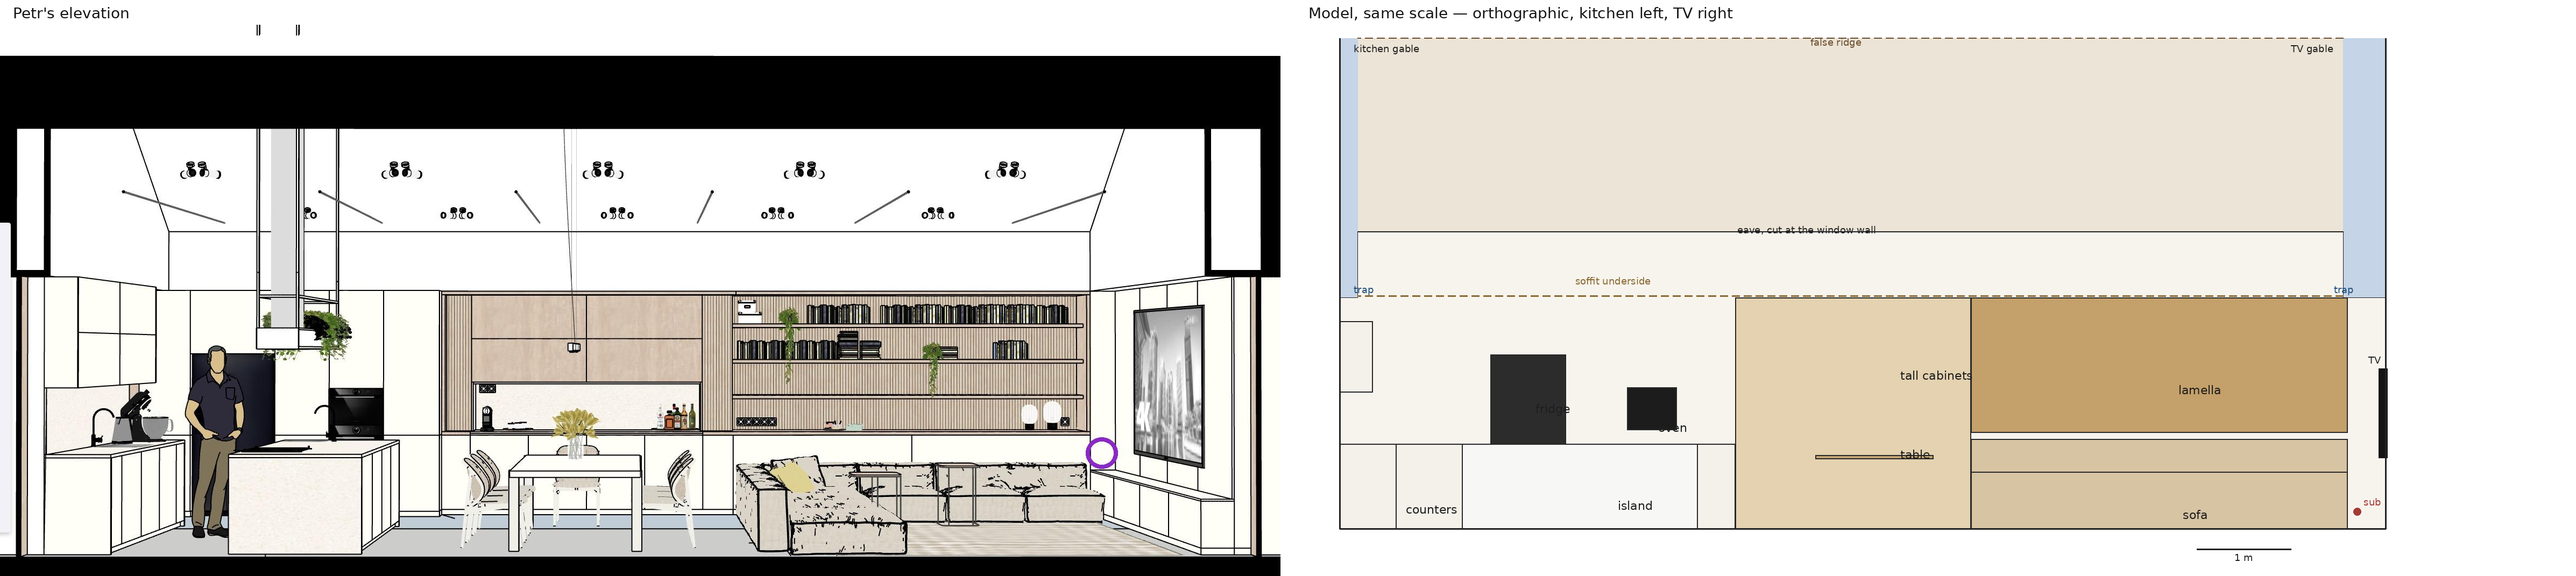
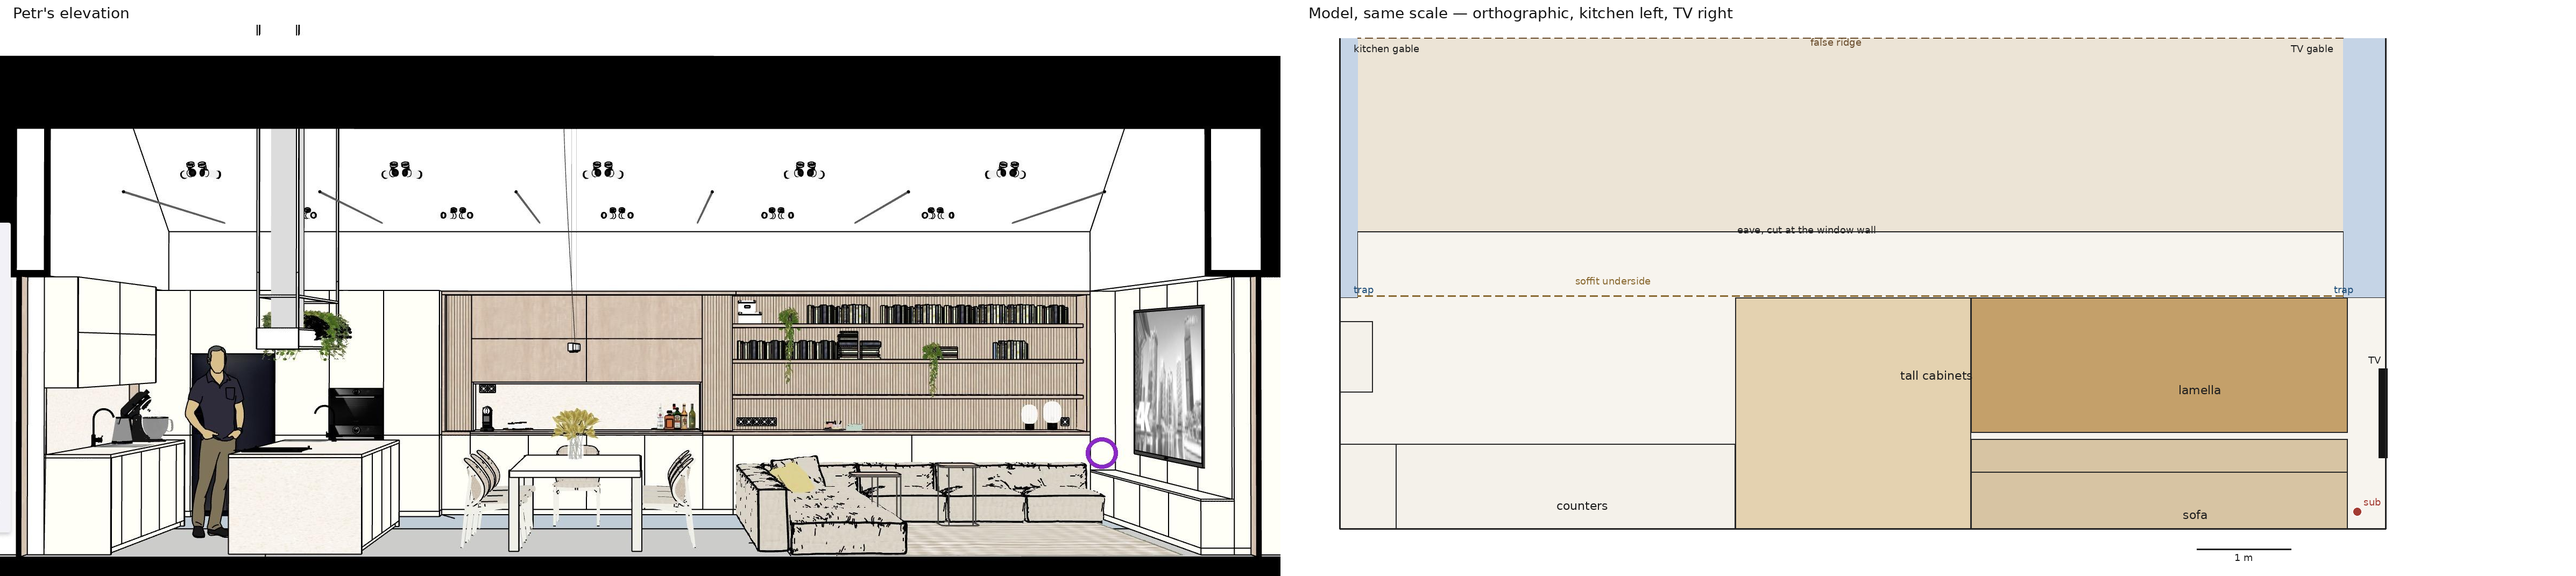
Drop the island, table, fridge, and oven from the obývák.
Petr kept the shell, sofa, lamella, tall cabinets, wall counters, rug, TV, and sub. The talker stands on the old table footprint. The dining and island ears stay at ear height.

Changed region(s): [[0.5602, 0.6162, 0.6535, 0.7703], [0.7157, 0.7703, 0.7469, 0.8011], [0.5913, 0.8627, 0.6224, 0.8936]]

diff --git a/src/blueprints/acoustics/roomwave/geometry.py b/src/blueprints/acoustics/roomwave/geometry.py
@@ -161,18 +161,17 @@ def load_shape() -> Shape:
     # Cabinet wall, TV gable (Y = 0) toward kitchen. Petr's elevation has the
     # kitchen on the left and the TV on the right.
     #
-    # Kept as solids: sofa, lamella wall, tall wood cabinets, kitchen counters,
-    # island, fridge, the wall oven in that run, TV, sub. The dining table is a 40 mm top.
-    # Omitted, because a solid box would invent a closed surface: hood, the open
-    # hanging shelf above the island, dining chairs, plants, pendants, the person,
-    # the low bench under the TV. The oven is a flush face in the counter run.
-    # Cabinet-wall uppers in the white kitchen are omitted for the same reason.
+    # Kept as solids: sofa, lamella wall, tall wood cabinets, kitchen counters
+    # along both walls, rug (floor patch), TV, sub. Petr removed the island, the
+    # dining table, the fridge, and the oven. Also omitted, because a solid box
+    # would invent a closed surface: hood, the open hanging shelf, dining chairs,
+    # plants, pendants, the person, the low bench under the TV. Cabinet-wall
+    # uppers over the white kitchen stay out for the same reason.
     #
     # The sofa is Petr's 4.0 × 4.0 m. It starts 0.40 m off the TV gable so the
     # sub at 0.30 m from both walls stays outside the sofa. The lamella is the
-    # same run, just above the back. The island is his 2.5 × 1.2 × 0.9 m, long
-    # side along the room. The kitchen end sits on the drawn island; the extra
-    # length runs toward the dining table.
+    # same run, just above the back. The counter run is continuous; the fridge
+    # bay is the same 900 mm counter as the rest of the wall.
     sofa_y0, run = 0.40, 4.00
     sofa_y1 = sofa_y0 + run
     back_h, seat_h = 0.95, 0.60
@@ -191,39 +190,32 @@ def load_shape() -> Shape:
     # the 4.0 m shelf, so this run is shorter than the drawing.
     tall_y1 = 6.90
     tall = (Box("tall", x_wall - 0.60, sofa_y1, 0.0, 0.60, tall_y1 - sofa_y1, shelf_z1),)
-    # Fridge in the cabinet-wall run. Oven is not a separate solid.
-    fridge_y0, fridge_y1 = 8.70, 9.50
+    # Continuous counter. The fridge and oven are not boxes.
     kitchen = (
-        Box("kitchen", x_wall - 0.60, tall_y1, 0.0, 0.60, fridge_y0 - tall_y1, 0.90),
-        Box("kitchen", x_wall - 0.60, fridge_y1, 0.0, 0.60, length - fridge_y1, 0.90),
-        Box("fridge", x_wall - 0.65, fridge_y0, 0.0, 0.65, fridge_y1 - fridge_y0, 1.85),
-        # Wall oven in that run, flush with the counters. Not a separate tall box.
-        Box("oven", x_wall - 0.60, 7.52, 1.05, 0.60, 0.53, 0.45),
+        Box("kitchen", x_wall - 0.60, tall_y1, 0.0, 0.60, length - tall_y1, 0.90),
         Box("kitchen", 0.40, length - 0.60, 0.0, x_wall - 0.60 - 0.40, 0.60, 0.90),
         Box("kitchen", 0.40, length - 0.35, 1.45, x_wall - 0.60 - 0.40, 0.35, 0.75),
     )
-    # 1.2 m into the room, 2.5 m along it, 0.90 m aisle in front of the counters.
-    island = (Box("island", x_wall - 0.60 - 0.90 - 1.20, 7.30, 0.0, 1.20, 2.50, 0.90),)
-    table = (Box("table", 2.30, 4.80, 0.74, 1.40, 1.25, 0.04),)
-    boxes = sofa + shelf_box + tall + kitchen + island + table
+    boxes = sofa + shelf_box + tall + kitchen
 
     # TV on the living gable, edge-on in the cabinet-wall elevation. No bench.
     # Sub is on the floor in the cabinet-wall / TV-gable corner.
+    # The talker stands at the old dining table (X 2.30–3.70, Y 4.80–6.05), mouth at 1.50 m.
+    # Dining and island ears stay at those old positions, at 1.15 m, with the furniture gone.
     tv_x0, tv_x1 = 2.70, 4.30
     sources = (
         Marker("sub", x_wall - 0.30, 0.30, 0.25, "sub"),
         Marker("tv_l", tv_x0 + 0.12, 0.08, 1.15, "tv"),
         Marker("tv_r", tv_x1 - 0.12, 0.08, 1.15, "tv"),
-        Marker("talker", 3.00, 6.50, 1.20, "talk"),
+        Marker("talker", 3.00, 5.425, 1.50, "talk"),
     )
     seat_x = x_wall - 0.75
-    island_box = island[0]
     receivers = (
         Marker("sofa_1", seat_x, 1.30, 1.15, "sofa"),
         Marker("sofa_2", seat_x, 2.50, 1.15, "sofa"),
         Marker("sofa_3", seat_x, 3.60, 1.15, "sofa"),
         Marker("dining", 3.00, 5.40, 1.15, "dining"),
-        Marker("island", island_box.x - 0.25, island_box.y + 0.5 * island_box.dy, 1.15, "island"),
+        Marker("island", 2.40, 8.55, 1.15, "island"),
     )
     rug = (1.80, 5.20, 0.50, 4.60)
     shelf = (sofa_y0, sofa_y1, shelf_z0, shelf_z1)

diff --git a/tests/test_roomwave.py b/tests/test_roomwave.py
@@ -106,18 +106,19 @@ def test_thickness_choice_leaves_a_boomy_room_toward_the_window():
 def test_layout_keeps_the_solid_pieces_and_drops_the_open_ones():
     shape = load_shape()
     names = {box.name for box in shape.boxes}
-    assert names <= {"sofa", "shelf", "tall", "kitchen", "fridge", "oven", "island", "table"}
-    assert "hood" not in names
-    assert "chair" not in names
-    island = next(box for box in shape.boxes if box.name == "island")
-    assert island.dx == pytest.approx(1.20)
-    assert island.dy == pytest.approx(2.50)
-    assert island.dz == pytest.approx(0.90)
+    assert names <= {"sofa", "shelf", "tall", "kitchen"}
+    assert names.isdisjoint({"hood", "chair", "island", "table", "fridge", "oven"})
     sofa = [box for box in shape.boxes if box.name == "sofa"]
     assert max(box.x1 for box in sofa) - min(box.x for box in sofa) == pytest.approx(4.0)
     assert max(box.y1 for box in sofa) - min(box.y for box in sofa) == pytest.approx(4.0)
-    table = next(box for box in shape.boxes if box.name == "table")
-    assert table.dz == pytest.approx(0.04)
+    talker = next(marker for marker in shape.sources if marker.name == "talker")
+    assert talker.x == pytest.approx(3.00)
+    assert talker.y == pytest.approx(5.425)
+    assert talker.z == pytest.approx(1.50)
+    dining = next(marker for marker in shape.receivers if marker.name == "dining")
+    island = next(marker for marker in shape.receivers if marker.name == "island")
+    assert dining.z == pytest.approx(1.15)
+    assert island.z == pytest.approx(1.15)
     for marker in (*shape.sources, *shape.receivers):
         for box in shape.boxes:
             inside = (

diff --git a/src/blueprints/acoustics/roomwave/study.py b/src/blueprints/acoustics/roomwave/study.py
@@ -803,11 +803,11 @@ def _report(data, choice, code, choice_rows, figures) -> str:
         "",
         "The subwoofer is a monopole on the floor in the living corner, 0.30 m from the",
         "cabinet wall and 0.30 m from the living gable. TV speakers sit on that gable.",
-        "A talker stands between the dining table and the island. Ears are at 1.15 m:",
-        "three sofa seats, one at the table, one beside the island. The L-sofa is a",
-        "0.40 m porous block (σ = 8000 Pa·s/m²). Kitchen, tall cabinets, fridge,",
-        "island, and the dining top are hard. Chairs, the hood, and the open shelf",
-        "above the island are not in the model.",
+        "A talker stands where the dining table was, mouth at 1.50 m. Ears are at 1.15 m:",
+        "three sofa seats, the former dining position, and the former island position.",
+        "The L-sofa is a 0.40 m porous block (σ = 8000 Pa·s/m²). Tall cabinets and the",
+        "kitchen counters are hard. The island, the dining table, the fridge, and the",
+        "oven are not in the model. Chairs, the hood, and the open shelf are not either.",
         "The bookshelf is a boundary on the cabinet wall (20 mm lamella gap, no wool,",
         "half books), cut off at the soffit underside. The rug is a 12 mm porous patch.",
         "No curtains. Full-height cabinets from the drawing are not in this air volume;",

diff --git a/src/blueprints/acoustics/roomwave/layout_review.py b/src/blueprints/acoustics/roomwave/layout_review.py
@@ -513,11 +513,7 @@ def _draw_elevation(shape: Shape, canvas, labels: bool, shell_fill: bool = True)
         ("sofa", 2.15, 0.22),
         ("lamella", 2.20, 1.55),
         ("tall cabinets", 5.15, 1.70),
-        ("counters", 10.40, 0.28),
-        ("fridge", 9.02, 1.35),
-        ("oven", 7.72, 1.15),
-        ("island", 8.15, 0.32),
-        ("table", 5.15, 0.86),
+        ("counters", 8.80, 0.32),
     )
     for text, y, z in named:
         draw.text(_px(y, z, length), text, fill=(30, 30, 30, 255), font=font)

diff --git a/docs/acoustics/LAYOUT.md b/docs/acoustics/LAYOUT.md
@@ -1,6 +1,6 @@
 # Obývák layout for the wave model
 
-Review sheet. No acoustic solve on this furniture.
+Furniture Petr approved for the wave study.
 
 The comparison is an orthographic elevation of the cabinet wall, cut at the window wall. Kitchen gable is on the left, TV gable on the right, same handedness as Petr's drawing. The pitch runs across the width, so the ridge, the eave, and the soffit are level lines. The drawing's ceiling line is the eave.
 
@@ -17,9 +17,12 @@ An opaque box where the room is open would be worse than a gap. These are not in
 - The person.
 - The low bench under the TV.
 - Cabinet-wall uppers over the white kitchen. Above those counters the drawing is open wall. The shelf that used to be drawn there is the hanging shelf above.
-- Rug pattern. A plain rug patch stays on the floor for a later acoustic run. It is not a box in this elevation.
+- Rug pattern. A plain rug patch stays on the floor. It is not a box in this elevation.
+- The island.
+- The dining table.
+- The fridge, the oven, and every other dark-grey or black box. The TV mark and the sub dot stay.
 
-The dining table is a 40 mm top. The wall oven is a flush face in the counter run, not a box standing in the room. The chaise is the sofa's return toward the windows. In this elevation it sits inside the long run's length, because X is collapsed. The plan shows the L.
+The chaise is the sofa's return toward the windows. In this elevation it sits inside the long run's length, because X is collapsed. The plan shows the L. The fridge bay is the same 900 mm counter as the rest of the cabinet wall.
 
 ## Shell
 
@@ -45,25 +48,19 @@ Order on the cabinet wall, from the TV gable toward the kitchen. X is metres fro
 | Sofa chaise, dining end, toward the windows | 1350–5350 | 3300–4400 | seat 600, back 950 |
 | Lamella wall, behind that run | 5170–5350 | 400–4400 | 1020–2450 |
 | Tall wood units | 4750–5350 | 4400–6900 | 0–2450 |
-| Kitchen base, cabinet wall, dining side of the fridge | 4750–5350 | 6900–8700 | 0–900 |
-| Wall oven, flush with that base | 4750–5350 | 7520–8050 | 1050–1500 |
-| Fridge | 4700–5350 | 8700–9500 | 0–1850 |
-| Kitchen base, cabinet wall, kitchen side of the fridge | 4750–5350 | 9500–11100 | 0–900 |
+| Kitchen base, cabinet wall, including the old fridge bay | 4750–5350 | 6900–11100 | 0–900 |
 | Kitchen base, kitchen gable | 400–4750 | 10500–11100 | 0–900 |
 | Kitchen uppers, kitchen gable, 350 mm deep | 400–4750 | 10750–11100 | 1450–2200 |
-| Island, 2500 × 1200 × 900 | 2650–3850 | 7300–9800 | 0–900 |
-| Dining table, 40 mm top | 2300–3700 | 4800–6050 | 740–780 |
 | TV, on the TV gable, edge-on in the elevation | 2700–4300 | on the wall | 750–1700 |
+| Rug, floor patch, not a box | 1800–5200 | 500–4600 | floor |
 
 The sofa bounding box is 4000 × 4000 mm. It starts at Y = 400 mm so the sub, 300 mm from both walls, stays outside the sofa. The lamella is that same run, from just above the back to 20 mm under the soffit. Drawn depth is 180 mm. Acoustically it is still wooden lamellas 20 mm off the wall, no wool, about half the shelves filled with books.
 
-The island is Petr's 2.5 × 1.2 m, long side along the room, 900 mm high. It sits 900 mm in front of the counter face. The kitchen end is on the island in the drawing. The extra length runs toward the dining table.
-
-Ears: sofa at X = 4600, Y = 1300 / 2500 / 3600, Z = 1150. Dining at (3000, 5400, 1150). Island at (2400, 8550, 1150), just on the window side of the island. Talker at (3000, 6500, 1200). TV speakers at the screen edges, Y = 80, Z = 1150.
+Ears stay at 1150 mm: sofa at X = 4600, Y = 1300 / 2500 / 3600; the former dining spot at (3000, 5400); the former island spot at (2400, 8550), which was just on the window side of the deleted island. The talker stands on the old table footprint, (3000, 5425), mouth at 1500 mm. TV speakers at the screen edges, Y = 80, Z = 1150.
 
 ## Model against the drawing
 
-Positions are read on the scale above. A minus delta means the model is toward the TV gable, or lower. Petr's 4.0 m sofa and 2.5 m island override the drawing where they disagree. Those two rows are the conflicts.
+Positions are read on the scale above. A minus delta means the model is toward the TV gable, or lower. Petr's 4.0 m sofa overrides the drawing. The island, the table, the fridge, and the oven are out of the model, so they are not in this table.
 
 | Piece | Model | Drawing | Delta |
 | --- | --- | --- | --- |
@@ -75,11 +72,7 @@ Positions are read on the scale above. A minus delta means the model is toward t
 | Tall units, kitchen end | Y 6900 | wood ends about Y 6870 | +30 mm |
 | Tall units, TV end | Y 4400 | wood/shelf joint about Y 3750 | +650 mm, follows the 4.0 m shelf |
 | Tall units, top | Z 2450 | about Z 2500 | −50 mm |
-| Counter | Z 900 | worktop line about Z 990 | −90 mm |
-| Fridge | Y 8700–9500, Z 0–1850 | the dark column, same span | within 50 mm |
-| Oven | Y 7520–8050, Z 1050–1500 | the black door | within 50 mm |
-| Island | Y 7300–9800, Z 900 | about Y 7620–9800, top Z 770–900 | dining end −320 mm |
-| Dining top | Y 4800–6050, Z 740–780 | about Y 4760–6010, top Z 780 | within 50 mm |
+| Counter | Z 900, Y 6900–11100 | worktop line about Z 990; a fridge stood in part of this run | height −90 mm; the bay is now counter |
 | Sub | Y 300, on the floor | purple ring on the gable face, beside the arm | see below |
 | TV | edge-on at the corner, Z 750–1700 | screen is on the gable face, right of the corner | width is not along Y |
 
@@ -88,7 +81,6 @@ The purple ring is centered just past the TV corner, at about the height of the 
 ## Conflicts
 
 - Sofa and lamella are 4.00 m, from Y = 400 mm. The drawing's shelf is about 3.75 m and reaches the TV gable. The model starts 350 mm later, so the sub is not inside the sofa, and it ends 600 mm further toward the kitchen. The tall units start at that end, so their TV end is 650 mm further toward the kitchen than the wood/shelf joint. Their kitchen end matches the drawing.
-- Island is 2.50 m along the room. The drawing shows about 2.2 m. The kitchen end is on the drawn end. The dining end is 320 mm closer to the table.
 
 ## Sheets
 
@@ -101,4 +93,4 @@ The purple ring is centered just past the TV corner, at about the height of the 
 - `layout-compare.png` — the same pair as the side-by-side
 - `reference.jpg`
 
-No frequency sweep has been run on this layout.
+The wave study on this furniture is `obyvak-wave.md`.
